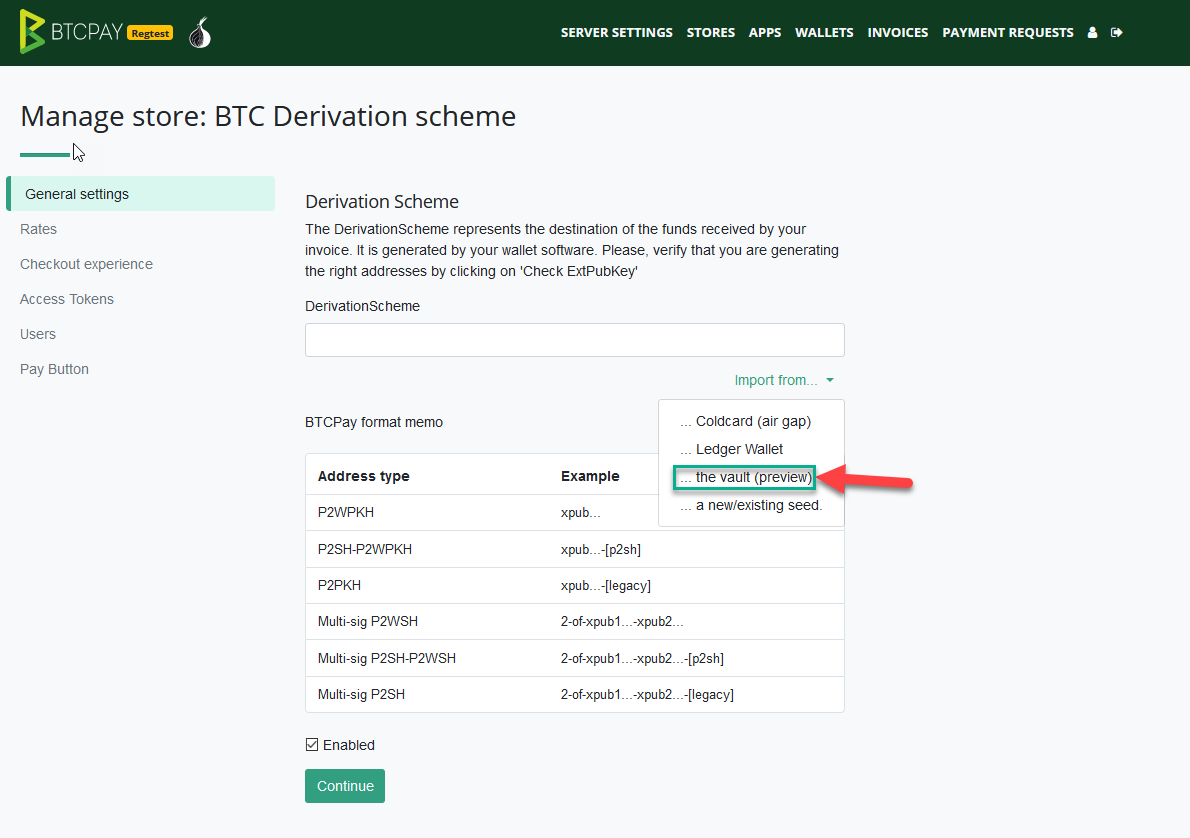
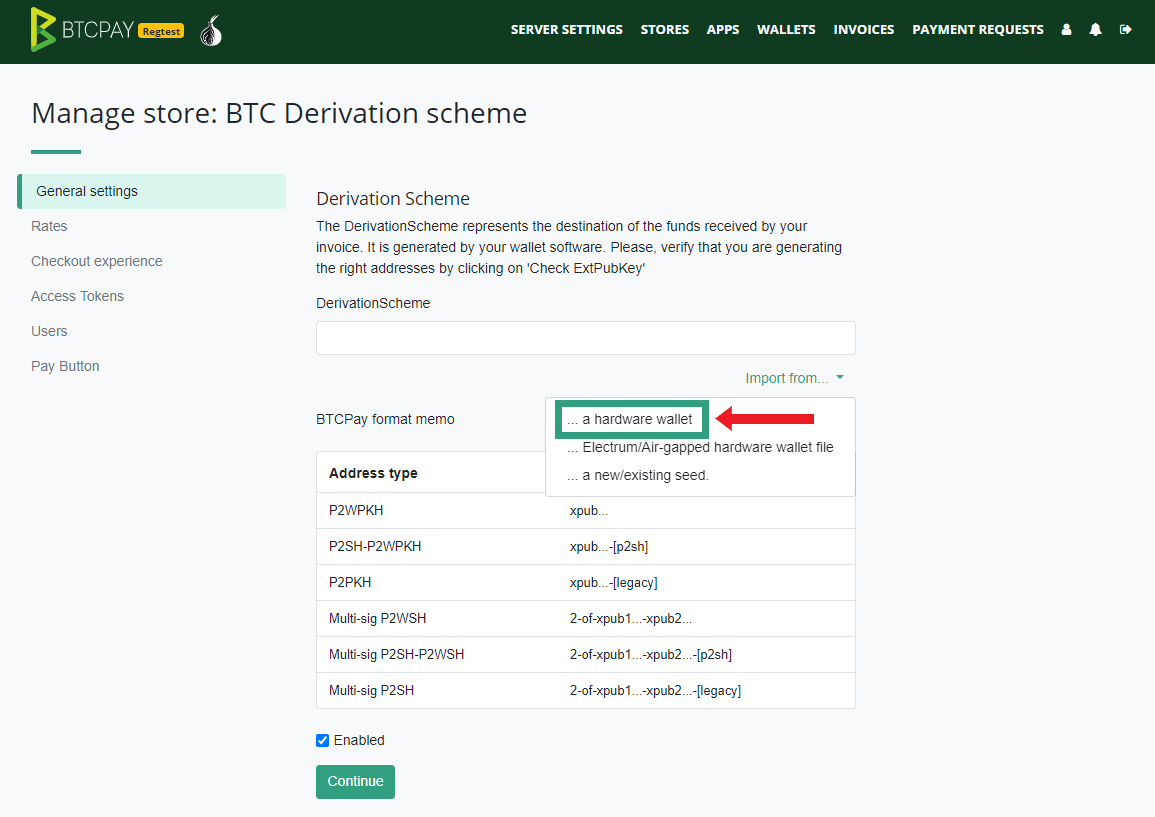
replace vault text and images

diff --git a/docs/Vault.md b/docs/Vault.md
@@ -18,7 +18,7 @@ Setting up BTCPay Vault is quite easy. You only need to have already set up BTCP
 2. Install the Vault on your PC (Windows, MacOS or Linux)
 3. Open the BTCPay Vault app
 4. Plug in the hardware wallet into your PC and make sure it’s in a wake up state
-5. Go to your BTCPay Server’s Store > General Settings > Derivation Scheme > **Import from the Vault**
+5. Go to your BTCPay Server’s Store > General Settings > Derivation Scheme > **Import from a hardware wallet**
 6. Grant the permission
 7. The public key will automatically be imported in the store and configured to an appropriate format
 8. Validate that address shown on BTCPay is the same as the one on your device
@@ -46,7 +46,7 @@ Once you’ve received funds to your wallet and you decide to spend them, you ca
 2. Plug in the hardware wallet and make sure it’s in wake up state
 3. In BTCPay Server, go to > Wallets > Manage > Send
 4. Fill in the Destination address and the Amount
-5. Select Sign with the Vault
+5. Select Sign with a hardware wallet
 6. Verify the transaction on your hardware wallet and confirm it
 7. Broadcast the transaction
 
